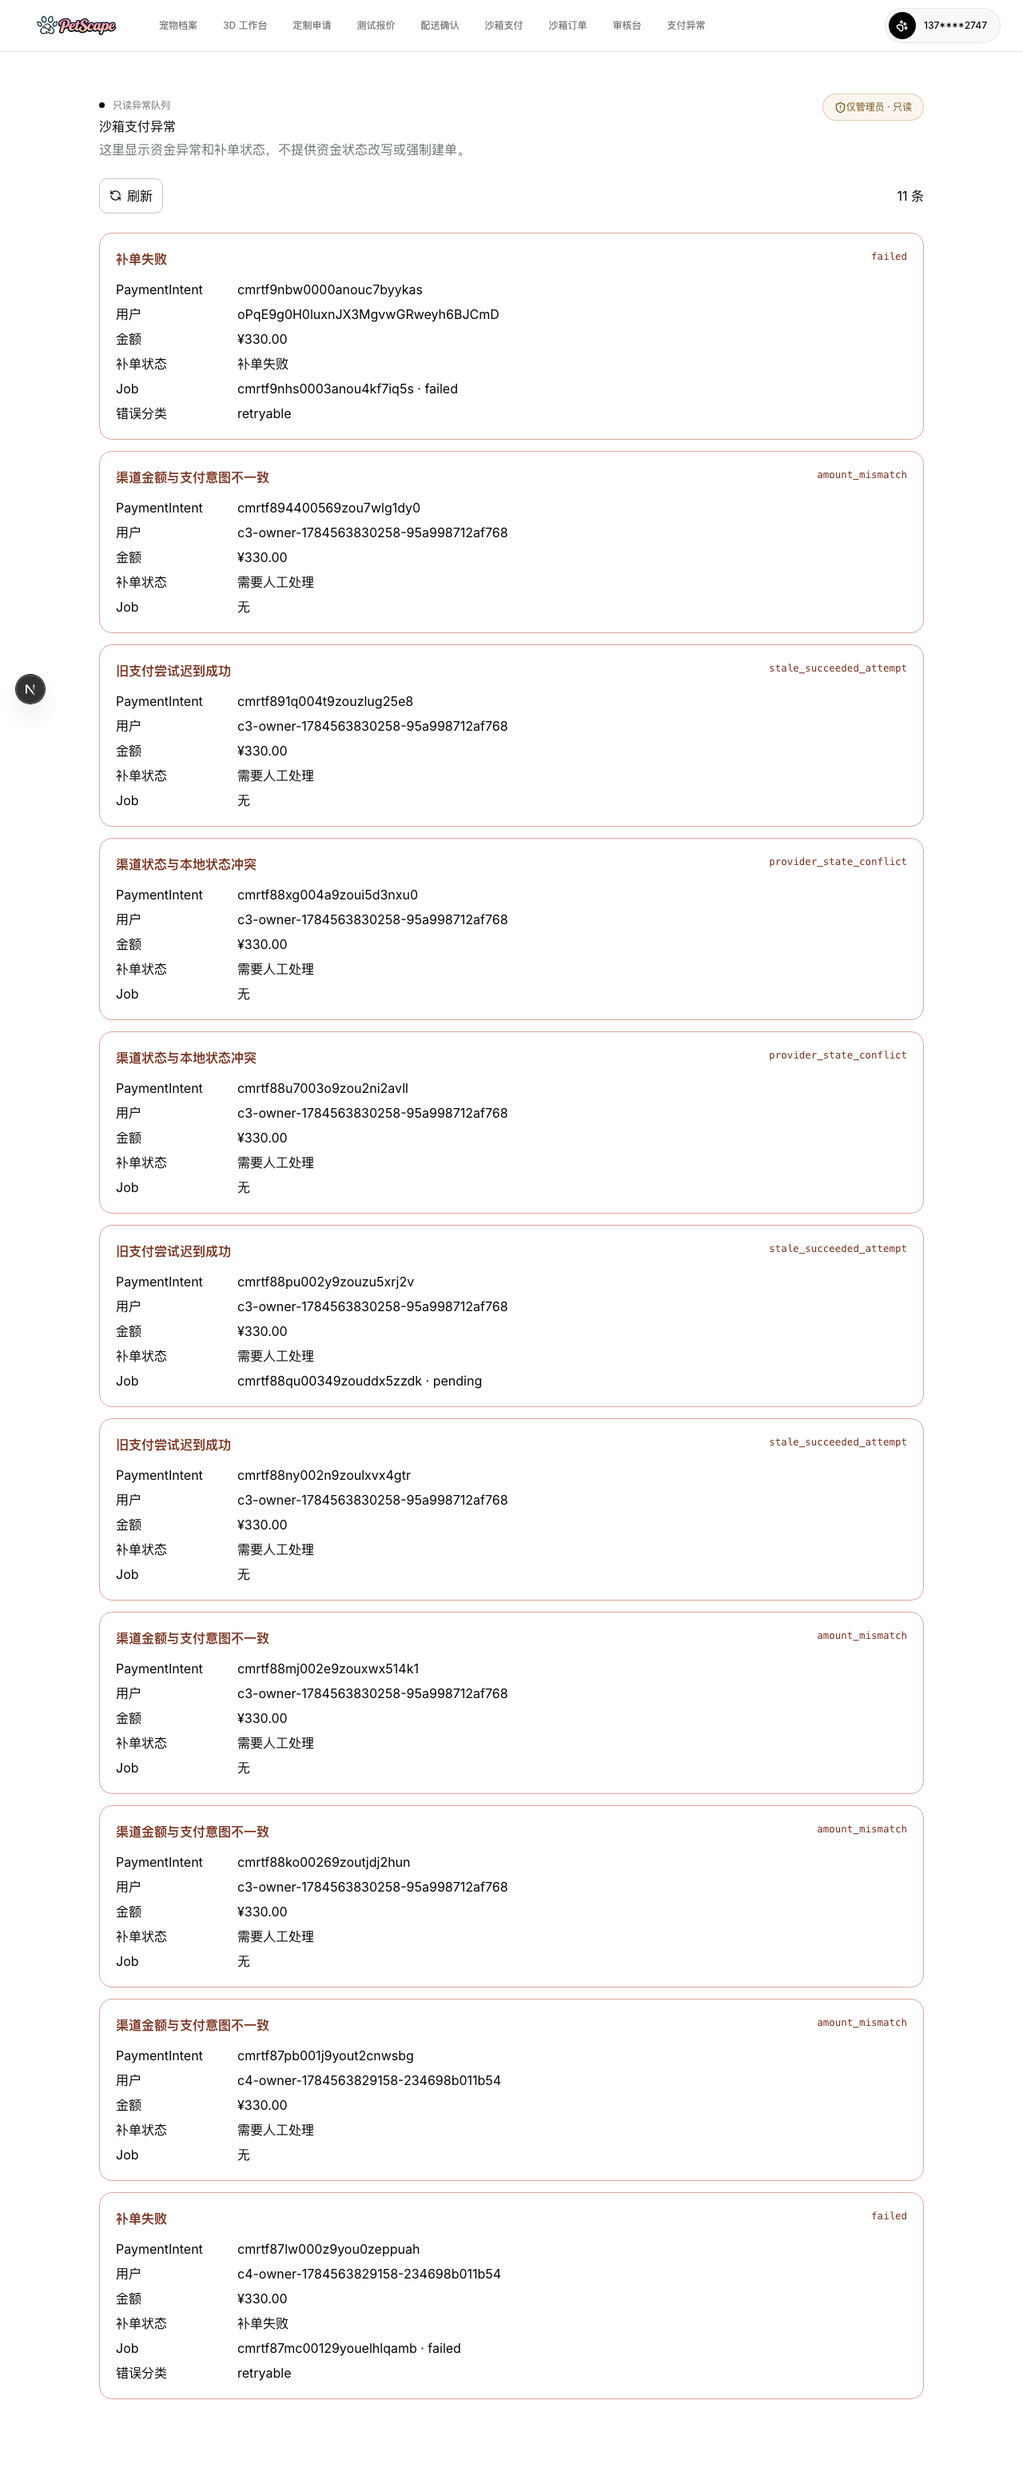
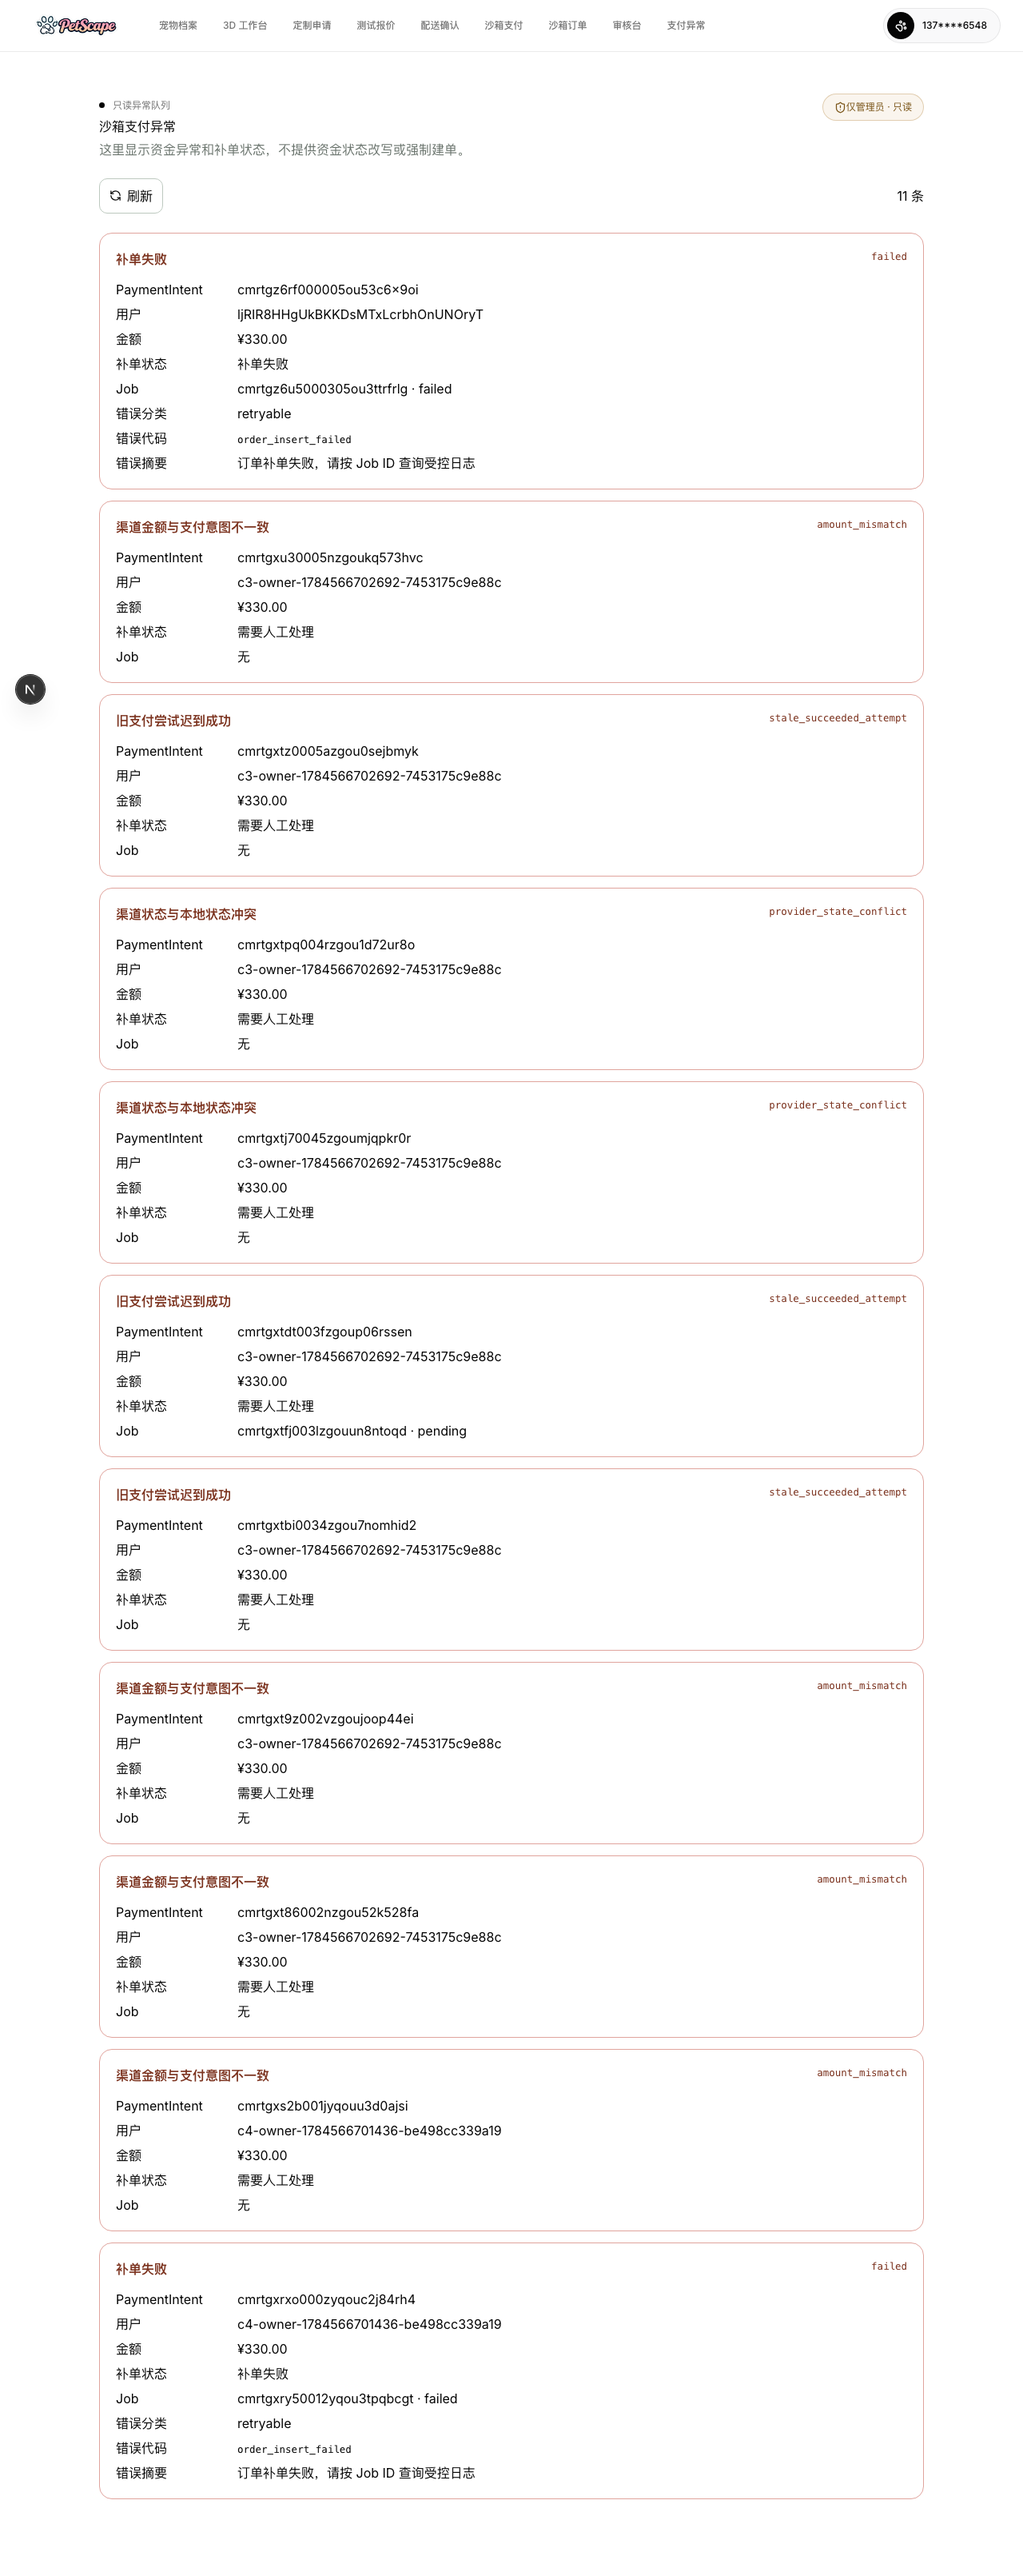
docs: close payment recovery audit evidence

diff --git a/docs/evidence/payment-recovery/ticket-3/README.md b/docs/evidence/payment-recovery/ticket-3/README.md
@@ -1,47 +1,58 @@
 # Ticket 3 receipt：补单与人工关注可见
 
-- 实现 SHA：`97e3f95ac975d04c905f28d89ae7b3d68ebebe63`
+- 实现 SHA：`916bdb1589f9f48c39c79af4b1cdb8a891497d01`
 - 验证日期：2026-07-20
 - 环境：macOS，Node `v24.7.0`，pnpm `10.23.0`，Docker PostgreSQL `16-alpine`
-- 数据库：一次性本机 `petscape_ticket3_full_test`，由 15 个 migration 从空库构建
+- 数据库：一次性本机 `petscape_payment_916bdb1_test`，由 15 个 migration 从空库构建
 - 交易边界：`NODE_ENV=test`，动态测试 secret，sandbox provider；没有真实扣款
 
 ## 红灯
 
-实现前的事故测试按预期失败：
+初版与独立审计后的事故测试按预期失败：
 
-- PaymentIntent contract 拒绝 `recoveryAction` 和 `orderRecoveryStatus`；
-- 管理员 contract 不接受补单 Job 摘要；
-- 订单列表 GET 会调用 `recoverOwnerOrders()`，通过 `Promise.allSettled` 静默补单。
+- provider payment ID 碰撞被误当成幂等成功；
+- 同一 provider event ID 的不同 payload 被静默去重；
+- reconcile 查 A 却可应用 provider 返回的 B；
+- 管理员 contract 暴露原始 `errorDetail`；
+- 租约过期后仍可 complete/fail，耗尽的 Job 仍可认领，Worker 崩溃后没有 durable 终态；
+- 用户首次支付初始化失败后会丢失幂等键，零 attempt 的 PaymentIntent 没有恢复入口。
 
 ## 绿灯
 
 | 验证层 | 入口 | 结果 |
 |---|---|---|
 | migration | `pnpm validate:payment-recovery` | 空 PostgreSQL 16 成功应用 15/15 migrations |
-| contract | 同一根入口 | 8/8 通过；恢复动作和五种补单状态为严格枚举 |
-| Worker 失败 | 同一根入口 | 1/1 通过；Job durable `needs_attention`，JSON 日志含 `jobId`、`errorClass=manual`、`outcome=needs_attention` |
-| 资金、竞态与订单集成 | 同一根入口 | 24/24 通过；订单读取无副作用，同步与 Worker 补单共享唯一订单终点 |
-| 用户与管理员浏览器 | 同一根入口 | 3/3 通过；覆盖失败重试、取消重试、迟到成功、补单中、补单失败、订单已生成和管理员定位 |
+| contract | 同一根入口 | 9/9 通过；恢复动作、补单状态和脱敏管理员错误为严格契约 |
+| Worker 失败 | 同一根入口 | 5/5 通过；handler 失败与 crash 耗尽均映射到 durable 状态和结构化日志 |
+| Job 租约与重试 | 同一根入口 | 15/15 通过；过期租约不能提交，`maxAttempts` 耗尽后不能再认领 |
+| 资金、竞态与订单集成 | 同一根入口 | 28/28 通过；身份冲突拒绝，订单读取无副作用，同步与 Worker 补单共享唯一订单终点 |
+| 用户与管理员浏览器 | 同一根入口 | 4/4 通过；新增零 attempt 恢复、确定性幂等键复用和 event payload 冲突 409 |
 | 静态检查 | 同一根入口 | server/worker lint 与 typecheck、web typecheck、目标文件 lint 通过；既有 lint baseline 未增加 |
 | production build | 同一根入口 | 通过；包含 `/payments`、`/orders`、`/admin/payments` 与相关 API |
-| 活动文档 | `pnpm validate:docs` | 55 个活动 Markdown 的 whitespace 与相对链接检查通过 |
+| 活动文档 | `pnpm validate:docs` | 56 个活动 Markdown 的 whitespace 与相对链接检查通过 |
 
 ## 行为证据
 
 - [补单中](order-recovering.png)：可信支付成功但同步建单被故障注入中断，用户页显示 `recovering`，订单列表读取后数据库仍无订单。
 - [补单失败](order-failed.png)：durable Job 失败后，用户页显示 `failed`，不再给出“查看订单”动作。
-- [管理员定位](admin-job-failed.png)：只读页显示 PaymentIntent、Job ID、Job 状态和错误分类，没有资金状态改写入口。
+- [管理员定位](admin-job-failed.png)：只读页显示稳定错误码与固定摘要，不返回原始 message 或 stack。
+- [零 attempt 恢复](zero-attempt-recovery.png)：provider 初始化落库被故障注入中断后，用户看到“恢复支付初始化”，没有错误的主动查单入口。
+- [确定性幂等恢复](stable-idempotency.png)：恢复请求使用由 Quote 确定性派生的同一幂等键，最终只产生一个 attempt。
+- [独立 negative-space audit](negative-space-audit.md)：覆盖 provider 失败、迟到事件、数据库 trigger、Worker 崩溃和 production fail-closed；复审未发现资金安全 Blocker。
 
 SHA-256：
 
[8 lines of base64/hex data omitted]
 
 ## 未验证边界
 
-- negative-space audit 尚未执行；它将在独立 Agent 不依赖原检索路径的条件下检查 provider 失败、迟到事件、数据库 trigger、Worker 崩溃和 production fail-closed。
-- 尚未在合并后的 GitHub CI exact SHA 上复跑；当前证据来自本机隔离 PostgreSQL 16 和真实 Chromium。
+- 尚未在合并后的 GitHub CI SHA 上复跑；当前证据来自实现 exact SHA、本机隔离 PostgreSQL 16 和真实 Chromium。
 - 没有连接生产 RDS、ECS 或真实支付渠道；production 继续保持支付 disabled。
 - sandbox provider 创建调用仍在数据库事务内；真实渠道接入前必须满足工程约束中的 outbox 或等价可恢复边界。
+- migration owner 与 runtime DB role 尚未分离；当前 trigger 是防误写护栏，不是抵御应用进程失陷的独立安全边界。
+
+根验证曾在两个中间 SHA 上主动失败：一次发现并发 provider 创建的时间戳不应作为幂等身份；一次发现 E2E 复用手机号触发 OTP 节流。两处修复后才生成本 receipt 所引用的 exact SHA 证据。

diff --git a/docs/evidence/payment-recovery/ticket-3/negative-space-audit.md b/docs/evidence/payment-recovery/ticket-3/negative-space-audit.md
@@ -1,0 +1,38 @@
+# Payment recovery negative-space audit
+
+- 日期：2026-07-20
+- 方式：独立 Agent 在不知道原实现检索路径的条件下只读审计；修复后由另一独立 code-review Agent 复审
+- 结论：sandbox-only 当前没有资金安全 Blocker；单 Order 幂等终点与 production fail-closed 成立
+
+## 覆盖范围
+
+- provider 创建失败、身份错配、payment ID 碰撞和同步终态；
+- 重复、迟到、乱序、旧 attempt 与异 payload 同 event ID；
+- PaymentIntent、PaymentAttempt、PaymentEvent、Order 和 history 的数据库 trigger；
+- Worker 在 claim、handler、complete/fail 前后的崩溃、租约过期和尝试次数耗尽；
+- production 配置、sandbox provider constructor 与部署环境；
+- 管理员权限、错误脱敏和订单读取副作用。
+
+## 审计发现与收口
+
+| 初始发现 | 收口 | 行为门禁 |
+|---|---|---|
+| 首次创建失败后 UI 丢失幂等键 | 由 Quote ID 的 SHA-256 确定性派生，不依赖 localStorage | Chromium 故障注入：两次 POST key 相同，零 attempt 恢复后仅一个 attempt |
+| reconcile 查 A 可应用 B | 严格核对被查询 provider payment ID | 集成测试证明 A/B 均不被推进 |
+| `P2002` 一律吞掉 | 回读同一 intent/attempt，核对 provider、payment ID 和状态 | provider ID 碰撞显式 `PaymentConflictError` |
+| create 接受同步 processing/终态 | sandbox 创建只接受 `requires_action` | processing 创建结果被拒，数据库无 attempt |
+| event ID 重用不核对 payload | 核对 provider、payment ID、source、状态、金额、时间和规范 payload | 异 payload 返回应用冲突，HTTP 映射 409 |
+| PaymentIntent、Order、Job 分次读取 | `RepeatableRead` 同快照派生公开恢复状态 | contract/集成与浏览器状态通过 |
+| Job 可超限认领，过期租约仍可提交 | claim、complete、fail 与 orphan recovery 都检查租约和 `maxAttempts` | Job 事故测试 15/15 |
+| 补单重试依赖英文 message | 按 Prisma code、SQLSTATE 和网络错误 code 分类 | P1001、P2024、P2034、40001、40P01、ECONNRESET、ETIMEDOUT 测试 |
+| 管理员返回原始 stack | 只返回稳定 `errorCode` 与固定 `errorSummary` | strict contract 拒绝 `errorDetail`，浏览器不显示故障原文 |
+
+修复复审另外发现 query event ID 不应哈希 adapter 的额外字段，以及 crash 耗尽日志缺少直接测试。最终实现只 fingerprint 固定规范字段，并把 orphan 结果到结构化日志的映射抽成纯函数测试。
+
+## 仍然成立的上线门禁
+
+- 真实 provider 外部调用不得长期位于数据库事务内，需 outbox 或等价可恢复边界；
+- migration owner 与 Web/Worker runtime DB role 必须分离；
+- 接真实渠道前需真实对账、退款、告警和人工处理流程。
+
+这些边界没有被 sandbox 证据证明，不能把本轮通过描述为真实支付可上线。

diff --git a/docs/specs/payment-recovery/ticket-3-recovery-visibility.md b/docs/specs/payment-recovery/ticket-3-recovery-visibility.md
@@ -1,6 +1,6 @@
 # Ticket 3：补单与人工关注可见
 
-- 状态：Audit remediation in progress（初版实现 `97e3f95ac975d04c905f28d89ae7b3d68ebebe63`；[初版行为证据](../../evidence/payment-recovery/ticket-3/README.md)）
+- 状态：Done（审计修复实现 `916bdb1589f9f48c39c79af4b1cdb8a891497d01`；[行为与审计证据](../../evidence/payment-recovery/ticket-3/README.md)）
 - 前置：[支付异常恢复 Spec](README.md)、[Ticket 2](ticket-2-safe-retry.md)
 - 证据目录：`docs/evidence/payment-recovery/ticket-3/`
 
